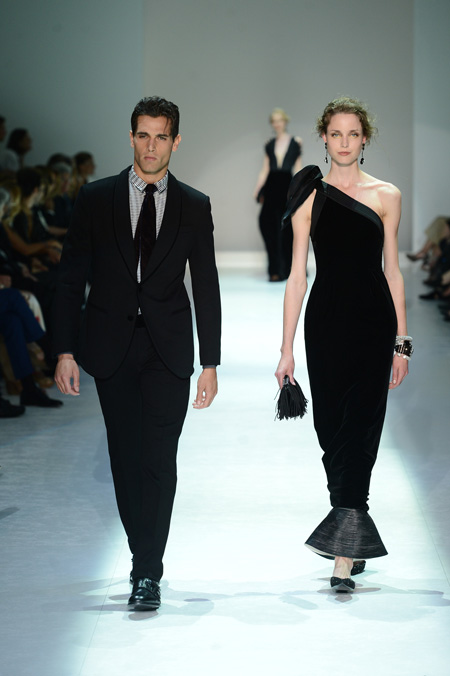
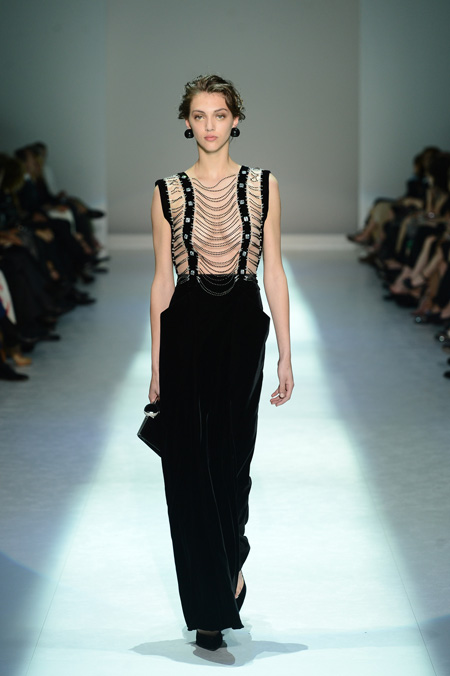
adding 8th june content

diff --git a/application/views/home/june_8.php b/application/views/home/june_8.php
@@ -1,7 +1,10 @@
-<div class="row-fluid">
+<?php if(!$isAjax):?>
+<a class="cd-close fixed" href="<?php echo base_url();?>">X</a>
+<?php endif; ?>
+<div class="row-fluid-social">
   <div class="span12">
     <div class="span3">
-      <img src="<?php echo base_url();?>assets/img/catwalk/PRIVE/one_night_only-PRIVE_1.jpg" width="450" height="676" alt="One Night Only PRIVE 1">
+      <img src="<?php echo base_url();?>assets/img/catwalk/giorgio-armani_prive.png" width="450" height="676" alt="Giorgio Armani Prive">
     </div>
     <div class="span3">
       <img src="<?php echo base_url();?>assets/img/catwalk/PRIVE/one_night_only-PRIVE_2.jpg" width="450" height="676" alt="One Night Only PRIVE 2">
@@ -27,10 +30,10 @@
       <img src="<?php echo base_url();?>assets/img/catwalk/PRIVE/one_night_only-PRIVE_8.jpg" width="450" height="676" alt="One Night Only PRIVE 8">
     </div>
   </div>
-<div class="row-fluid">  
+<div class="row-fluid-social">  
   <div class="span12">
     <div class="span3">
-      <img src="<?php echo base_url();?>assets/img/catwalk/GA/one_night_only-GA_1.jpg" width="450" height="676" alt="One Night Only GA 1">
+      <img src="<?php echo base_url();?>assets/img/catwalk/giorgio-armani.png" width="450" height="676" alt="Giorgio Armani">
     </div>
     <div class="span3">
       <img src="<?php echo base_url();?>assets/img/catwalk/GA/one_night_only-GA_2.jpg" width="450" height="676" alt="One Night Only GA 2">
@@ -57,10 +60,10 @@
     </div>
   </div>
 </div>
-<div class="row-fluid">
+<div class="row-fluid-social">
   <div class="span12">
     <div class="span3">
-      <img src="<?php echo base_url();?>assets/img/catwalk/EA/one_night_only-EA_1.jpg" width="450" height="676" alt="One Night Only EA 1">
+      <img src="<?php echo base_url();?>assets/img/catwalk/emporio-armani.png" width="450" height="676" alt="Emporio Armani">
     </div>
     <div class="span3">
       <img src="<?php echo base_url();?>assets/img/catwalk/EA/one_night_only-EA_2.jpg" width="450" height="676" alt="One Night Only EA 2">

diff --git a/application/controllers/home.php b/application/controllers/home.php
@@ -108,12 +108,12 @@ class Home extends CI_Controller{
                                       "type"=>"");
                                       
     $this->_data['events'][] = array( "date"=>mktime(0,0,0,6,8,2013),
-                                      "image"=>"http://cdn3.yoox.biz/armani/wp-content/uploads/2013/05/waiting.jpg",
+                                      "image"=>base_url()."assets/img/catwalk/GA/one_night_only-GA_2.jpg",
                                       "link"=>"home/countdown",
-                                      "enabled"=>"false",
-                                      "available"=>"false",
-                                      "title"=>"CONTENT COMING:",
-                                      "subtitle"=>"8.6.2013",
+                                      "enabled"=>"true",
+                                      "available"=>"true",
+                                      "title"=>"FROM THE RUNWAY",
+                                      "subtitle"=>"",
                                       "type"=>"");
                                       
     $this->_data['events'][] = array( "date"=>mktime(0,0,0,6,9,2013),
